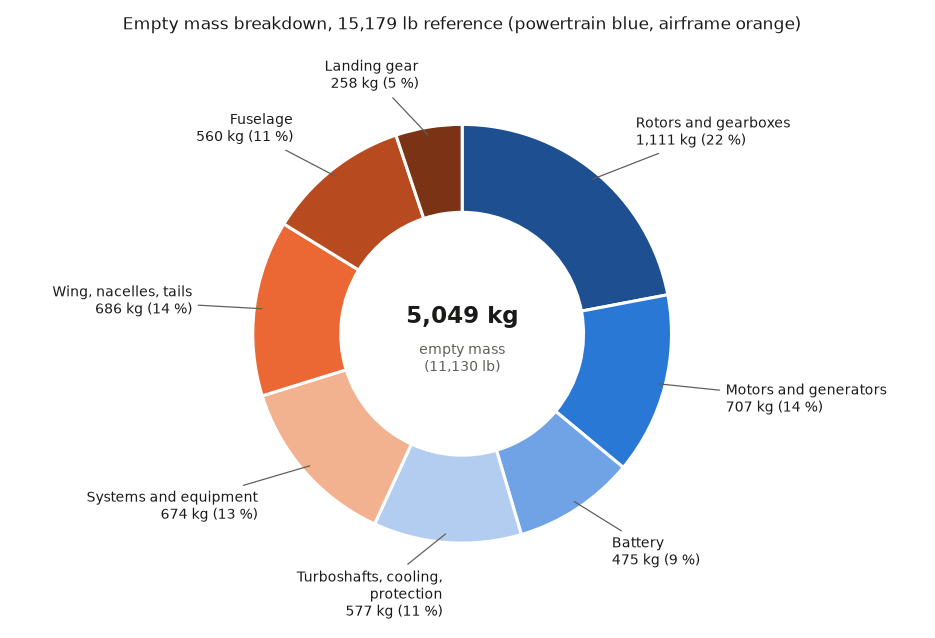
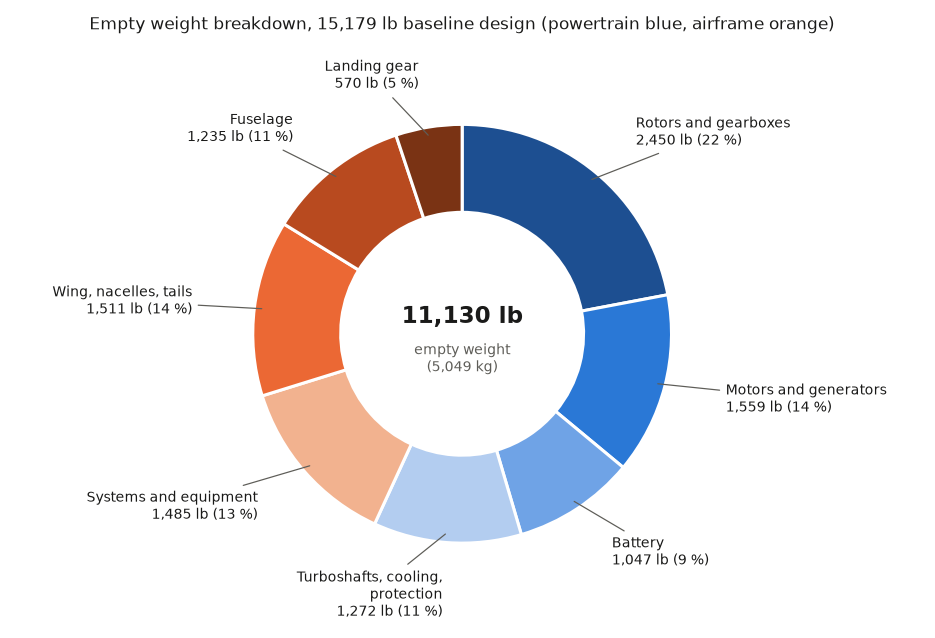
docs: US units first (lb, ft, ft², hp) in the README, RESULTS baseline tables and the empty-weight chart; SI alongside
Claude-Session: https://claude.ai/code/session_01FLjVsxbKSe98ZaFjmhm6VV

diff --git a/README.md b/README.md
@@ -11,31 +11,34 @@ and every model is checked against public tiltrotor data before it is trusted.
 
 | | |
 |---|---|
-| **Take-off weight** | **6,885 kg (15,179 lb)** |
-| Payload | 900 kg (1,984 lb) |
-| Empty weight (OEW) | 5,049 kg (11,130 lb), of which powertrain 2,871 kg (57 %) |
-| Fuel / battery | 936 kg (10 % reserve included) / 70 kWh, 475 kg, two isolated strings |
+| **Take-off weight** | **15,179 lb** (6,885 kg) |
+| Payload | 1,984 lb (900 kg) |
+| Empty weight (OEW) | 11,130 lb (5,049 kg), of which powertrain 6,329 lb (57 %) |
+| Fuel / battery | 2,065 lb, 10 % reserve included / 70 kWh, 1,047 lb, two isolated strings |
 | Maximum speed | 210 kt sustained at 10,000 ft |
-| Design range | 445 nm with 900 kg, plus a 20 min reserve loiter |
-| Mission cruise | 165 kt at 10,000 ft, L/D 9.1 (cruise speed is optimized for mass; 210 kt is a dash capability) |
+| Design range | 445 nm with 1,984 lb payload, plus a 20 min reserve loiter |
+| Mission cruise | 165 kt at 10,000 ft, L/D 9.1 (cruise speed is optimized for weight; 210 kt is a dash capability) |
 | Ceiling | 13,000 ft |
-| Hover | out of ground effect at 4,000 ft, including an ISA + 27.7 K day at the destination |
+| Hover | out of ground effect at 4,000 ft, including a 95 °F day (ISA + 50 °F) at the destination |
 | Failure hovers | 60 s after losing a turbogenerator, a bus or a battery string |
-| Turboshafts | 2 × 835 kW (1,120 hp), fixed off-the-shelf engines in the fuselage |
-| Rotors | 2 × 9.7 m, disk loading 47 kg/m² (9.6 lb/ft²), rotor radius capped by the span |
-| Wing | 23.3 m², 11.9 m span |
+| Turboshafts | 2 × 1,120 hp, fixed off-the-shelf engines in the fuselage |
+| Rotors | 2 × 31.7 ft diameter, disk loading 9.6 lb/ft², tip speed 782 ft/s; rotor radius capped by the span |
+| Wing | 251 ft², 39.2 ft span, wing loading 60.5 lb/ft² |
 | Drive | per rotor, 2 motor lanes of stacked axial-flux units behind one 4.5:1 stage; two cross-strapped DC buses |
-| Fuselage | 11 m, unpressurized box section 1.68 × 2.0 m |
+| Fuselage | 36.1 ft long, unpressurized box section 5.5 × 6.6 ft |
 
-**Empty weight breakdown (kg):**
+**Empty weight breakdown (lb):**
 
 | Powertrain | | Airframe and systems | |
 |---|---|---|---|
-| Rotors and gearboxes | 1,111 | Wing, nacelles, tails | 686 |
-| Motors and generators (with inverters) | 707 | Systems and equipment | 674 |
-| Battery | 475 | Fuselage | 560 |
-| Turboshafts | 422 | Landing gear | 258 |
-| Heat exchanger, protection, bus tie | 155 | | |
+| Rotors and gearboxes | 2,450 | Wing, nacelles, tails | 1,511 |
+| Motors and generators (with inverters) | 1,559 | Systems and equipment | 1,485 |
+| Battery | 1,047 | Fuselage | 1,235 |
+| Turboshafts | 930 | Landing gear | 570 |
+| Heat exchanger, protection, bus tie | 343 | | |
+| **Total powertrain** | **6,329** | **Total airframe and systems** | **4,801** |
+
+The model works in SI internally; [docs/RESULTS.md](docs/RESULTS.md) gives the SI values alongside.
 
 Not computed yet: maximum range at reduced payload (the payload-range curve) and maximum endurance.
 
@@ -59,7 +62,7 @@ input, not a design variable.
 **Findings worth knowing:**
 
 - With these engines, payload goes to zero near 228 kt, so 250 kt is out of reach at any size.
-- A realistic (equivalent-circuit) battery costs about 230 kg of payload against an ideal one.
+- A realistic (equivalent-circuit) battery costs about 510 lb (230 kg) of payload against an ideal one.
 - Real catalogue machines change the architecture, not just the mass. A freely scalable motor wants about
   13,000 rpm behind a 32:1 gearbox; whole units of real products want slow, stacked axial-flux motors behind a
   single stage.
@@ -155,7 +158,7 @@ In rough order of how much each could move the answer:
 4. **The wing is not closed structurally.** The finite-element check puts jump take-off spar-cap strain at 1.10 of
    the allowable, and wing torsion is not cleanly separated from nacelle modes. The check was last run on an
    earlier version (v3.3.5, 13,038 lb), not the baseline.
-5. **The electrical layer is built but off by default.** Inverters, cables and protection add about 330 kg and 3 %
+5. **The electrical layer is built but off by default.** Inverters, cables and protection add about 730 lb (330 kg) and 3 %
    losses; with every option on, the problem converges only through the multistart strategy.
 6. **Failures are single and symmetric.** Double failures did not converge (not shown infeasible), and degraded
    states apply to both rotors, so roll trim is not modelled.

diff --git a/docs/RESULTS.md b/docs/RESULTS.md
@@ -108,48 +108,48 @@ line (v3.3.4 and v3.3.5). See [aircraft versions](AIRCRAFT_VERSIONS.md).
 
 | Quantity | Value |
 |---|---|
-| Take-off mass | **6,885 kg (15,179 lb)** |
-| Empty mass | 5,049 kg |
-| Fuel (with reserve) | 936 kg |
-| Battery | 70.0 kWh, 475 kg, 2 isolated strings (end-of-life rating) |
-| Wing | 23.3 m², span 11.9 m (NDARC tiltrotor wing, whirl-flutter margins) |
-| Rotors | 2 × 9.7 m diameter; disk loading 47 kg/m² (9.6 lb/ft²); tip speed 238 m/s |
-| Motors | 2 lanes per rotor; each lane is 2 Evolito D1500-class units (528 kW continuous) |
+| Take-off weight | **15,179 lb** (6,885 kg) |
+| Empty weight | 11,130 lb (5,049 kg) |
+| Fuel (with reserve) | 2,065 lb (936 kg) |
+| Battery | 70.0 kWh, 1,047 lb (475 kg), 2 isolated strings (end-of-life rating) |
+| Wing | 251 ft² (23.3 m²), span 39.2 ft (11.9 m) (NDARC tiltrotor wing, whirl-flutter margins) |
+| Rotors | 2 × 31.7 ft (9.7 m) diameter; disk loading 9.6 lb/ft² (47 kg/m²); tip speed 782 ft/s (238 m/s) |
+| Motors | 2 lanes per rotor; each lane is 2 Evolito D1500-class units (708 hp, 528 kW continuous) |
 | Generators | each is 3 Helix SPX242-class units |
 | Rotor gearbox | 4.5:1, one stage |
-| Turboshafts | 2 × 835 kW (1,120 hp), fixed, in the fuselage |
+| Turboshafts | 2 × 1,120 hp (835 kW), fixed, in the fuselage |
 | Cruise | 165 kt at 10,000 ft, L/D 9.07 |
-| Heat exchanger | 127 kg ram-air unit, fans in hover |
+| Heat exchanger | 280 lb (127 kg) ram-air unit, fans in hover |
 | Cost per mission | about USD 3,310 (Tier 22 cost model; prices are labelled assumptions) |
 
-**Empty-mass breakdown (kg):**
+**Empty-weight breakdown:**
 
-![Empty mass breakdown](figures/oew_breakdown.png)
+![Empty weight breakdown](figures/oew_breakdown.png)
 
-| Group | Mass |
-|---|---|
-| Powertrain | 2,871 |
-| Fuselage | 560 |
-| Wing | 408 |
-| Systems | 407 |
-| Equipment | 266 |
-| Landing gear | 258 |
-| Nacelles | 195 |
-| Tails | 83 |
+| Group | lb | kg |
+|---|---|---|
+| Powertrain | 6,329 | 2,871 |
+| Fuselage | 1,235 | 560 |
+| Wing | 899 | 408 |
+| Systems | 898 | 407 |
+| Equipment | 587 | 266 |
+| Landing gear | 570 | 258 |
+| Nacelles | 430 | 195 |
+| Tails | 183 | 83 |
 
 Within the powertrain:
 
-| Item | Mass |
-|---|---|
-| Rotors | 675 |
-| Battery | 475 |
-| Motors with inverters | 426 |
-| Turboshafts | 422 |
-| Rotor gearboxes | 292 |
-| Generators with inverters | 282 |
-| Generator gearboxes | 144 |
-| Heat exchanger | 127 |
-| Bus tie and string protection | 28 |
+| Item | lb | kg |
+|---|---|---|
+| Rotors | 1,488 | 675 |
+| Battery | 1,047 | 475 |
+| Motors with inverters | 938 | 426 |
+| Turboshafts | 930 | 422 |
+| Rotor gearboxes | 645 | 292 |
+| Generators with inverters | 621 | 282 |
+| Generator gearboxes | 318 | 144 |
+| Heat exchanger | 280 | 127 |
+| Bus tie and string protection | 63 | 28 |
 
 ### What sizes the aircraft
 

diff --git a/docs/NEXT_STEPS.md b/docs/NEXT_STEPS.md
@@ -65,7 +65,7 @@ calibrations. **Effort:** a day, once the data source is in hand.
 
 ## 5. Electrical layer on by default
 
-**Why.** Inverters, cables, protection and partial-discharge insulation are modelled (about 330 kg and 3 % losses)
+**Why.** Inverters, cables, protection and partial-discharge insulation are modelled (about 730 lb, 330 kg, and 3 % losses)
 but off by default, because with every option on the problem converges only through the multistart strategy.
 
 **How.** Better problem scaling and a continuation start (solve without the layer, then switch it on from that
